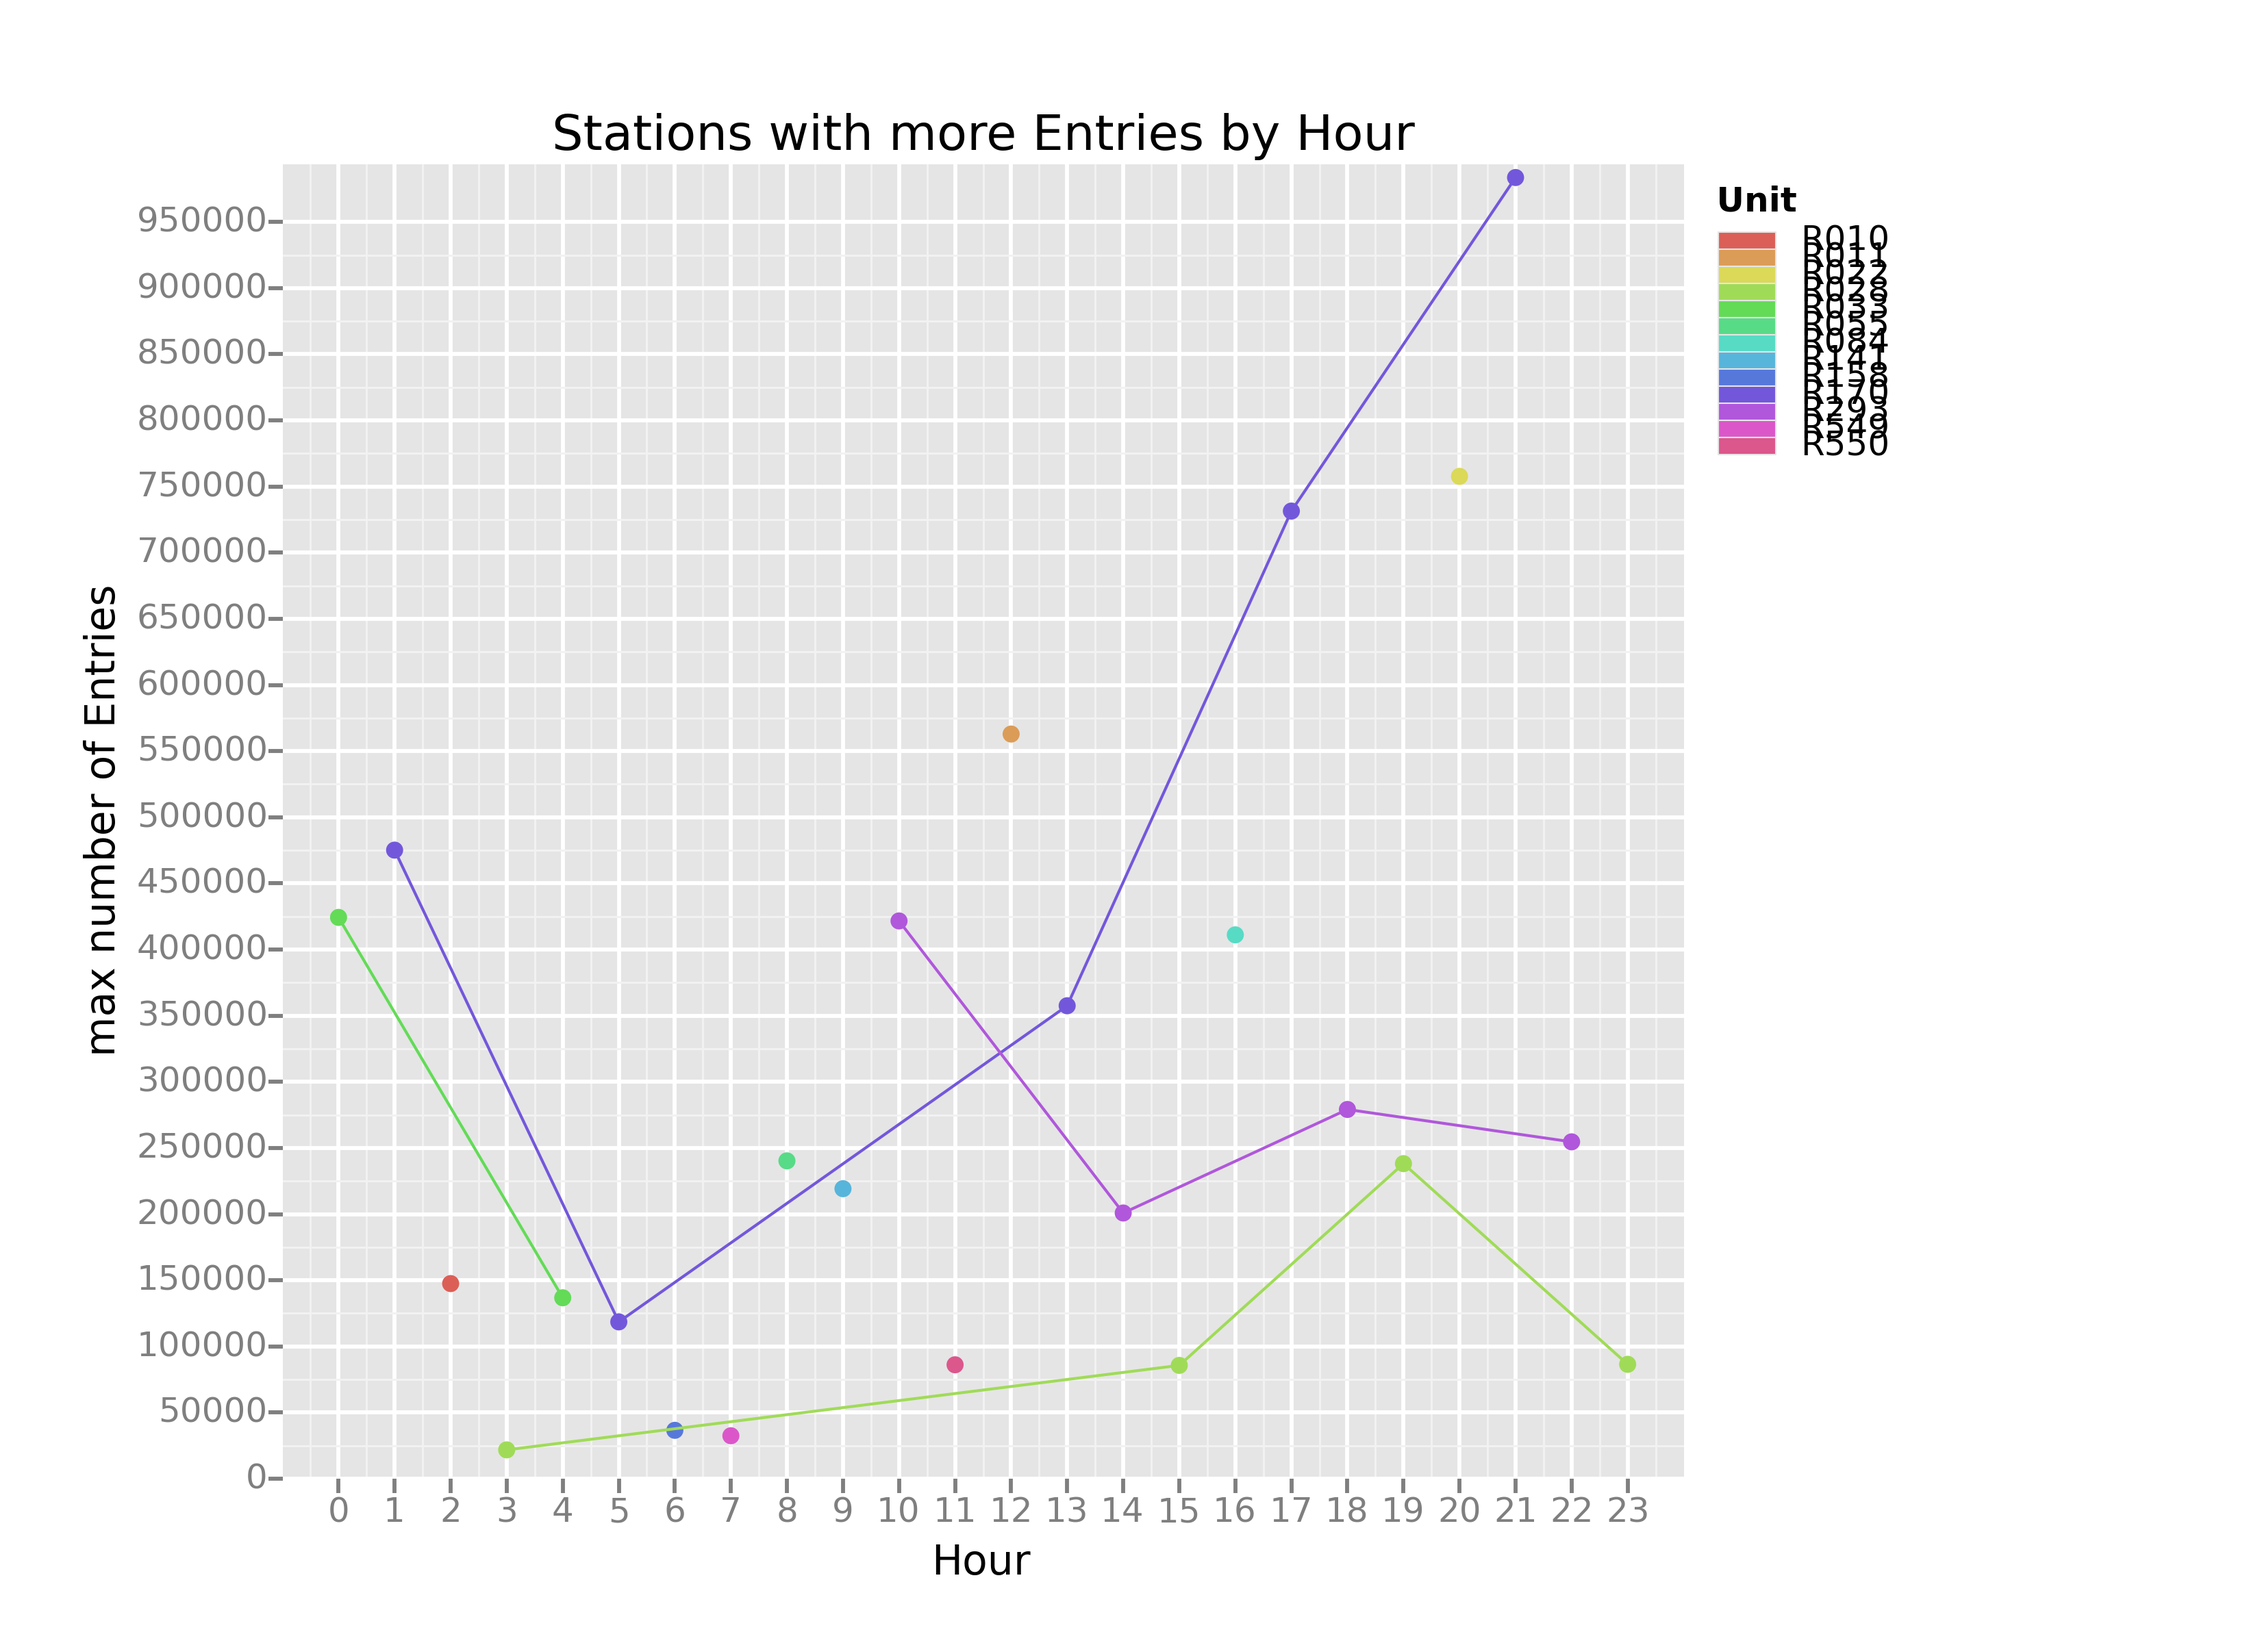
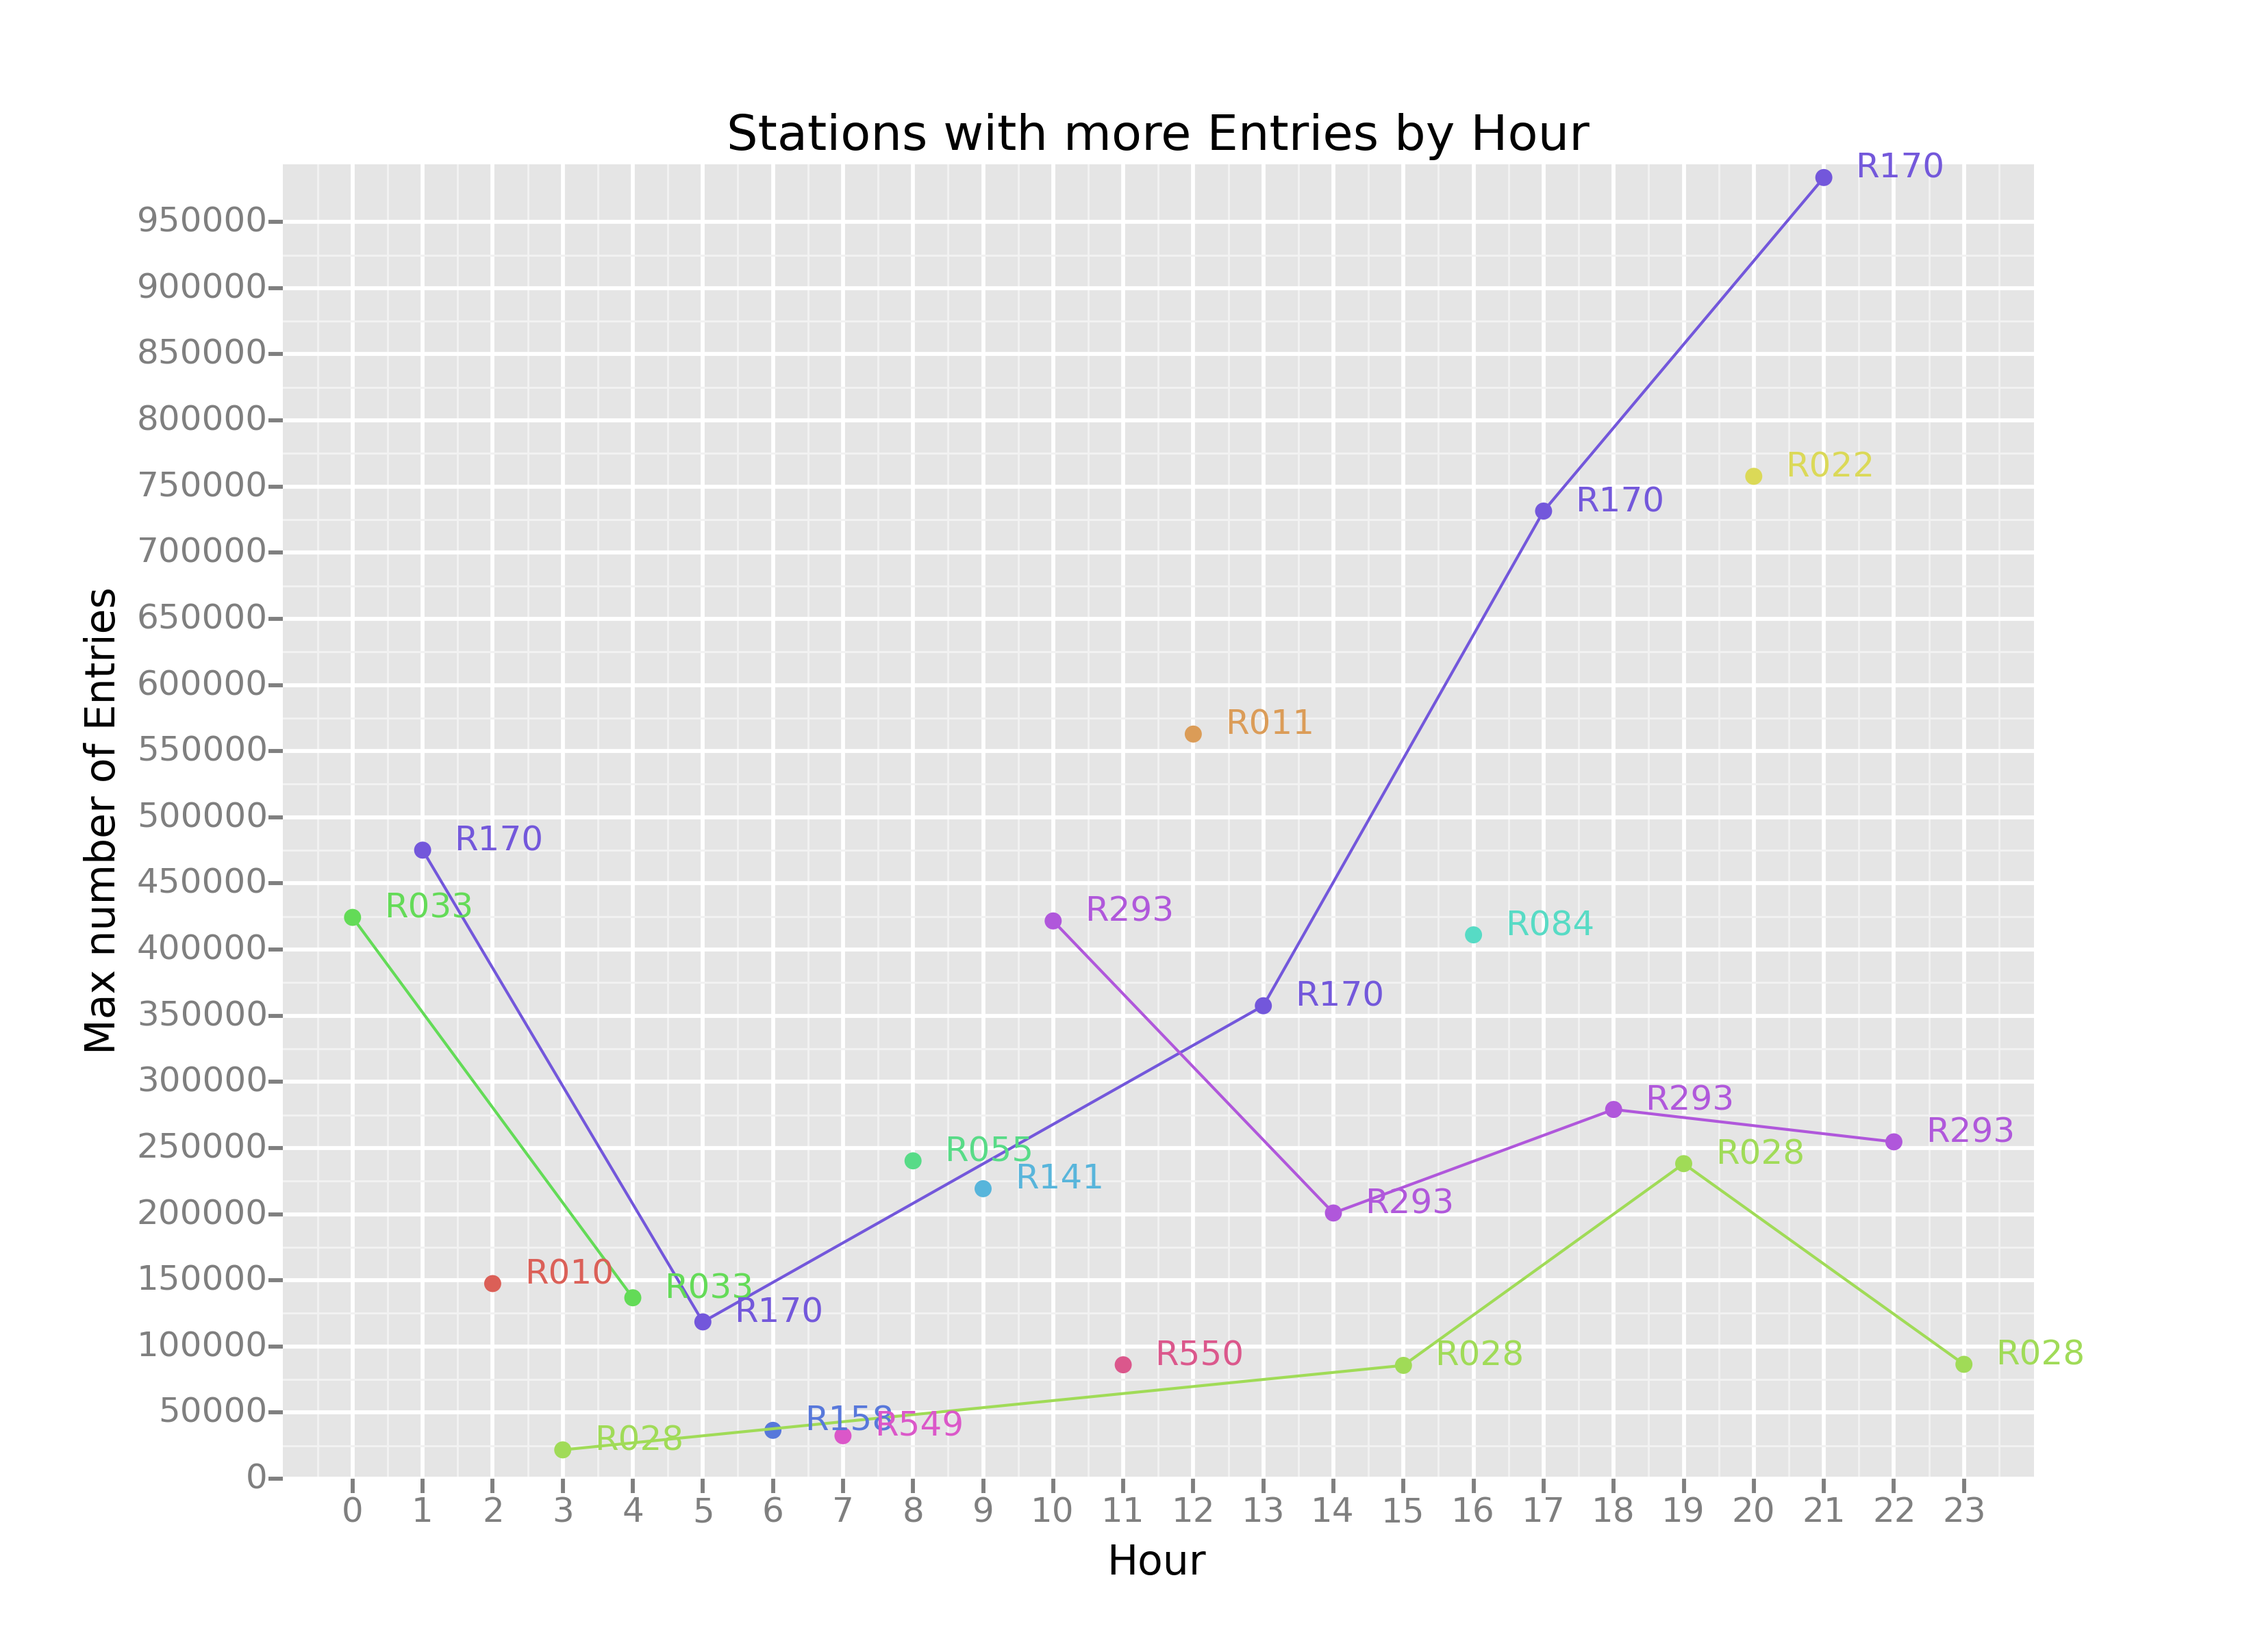
Intro to Data Science - Project Submission v1.2

diff --git a/intro_to_ds_programming_files/project_4/exercise_2/data_visualization.py b/intro_to_ds_programming_files/project_4/exercise_2/data_visualization.py
@@ -36,8 +36,8 @@ def plot_weather_data(turnstile_weather):
     about 1/3 of the actual data in the turnstile_weather dataframe.
     '''
 
-    #plot = ggplot(turnstile_weather, aes('EXITSn_hourly', 'ENTRIESn_hourly')) + stat_smooth(span=.15, color='black',
-    #                                                                                        se=True) + geom_point(
+    # plot = ggplot(turnstile_weather, aes('EXITSn_hourly', 'ENTRIESn_hourly')) + stat_smooth(span=.15, color='black',
+    # se=True) + geom_point(
     #    color='lightblue') + ggtitle("MTA Entries By The Hour!") + xlab('Exits') + ylab('Entries')
     #return plot
 
@@ -59,10 +59,12 @@ def plot_weather_data(turnstile_weather):
     # rename Entries column
     hour_and_maxentries = hour_and_maxentries.rename(columns={'sum_ENTRIESn_hourly': 'max_ENTRIESn_hourly'})
 
-    plot2 = ggplot(hour_and_maxentries,
-                   aes('Hour', 'max_ENTRIESn_hourly', color='UNIT')) + geom_point(size=30) + geom_line() + ggtitle(
-        'Stations with more Entries by Hour') + xlab('Hour') + ylab('Max number of Entries') + scale_x_continuous(
-        limits=(-1, 24), breaks=range(0, 24, 1)) + ylim(0, hour_and_maxentries['max_ENTRIESn_hourly'].max() + 10000)
+    plot2 = ggplot(hour_and_maxentries, aes('Hour', 'max_ENTRIESn_hourly', color='UNIT')) + geom_point(
+        size=30) + geom_line() + ggtitle('Stations with more Entries by Hour') + xlab('Hour') + ylab(
+        'Max number of Entries') + scale_x_continuous(limits=(-1, 24), breaks=range(0, 24, 1)) + ylim(0,
+                                                                                                      hour_and_maxentries[
+                                                                                                          'max_ENTRIESn_hourly'].max() + 10000) + geom_text(
+        aes(label='UNIT'), hjust=0.5, vjust=0.5)
     return plot2
 
 
@@ -72,5 +74,6 @@ if __name__ == "__main__":
     turnstile_weather = pd.read_csv("turnstile_data_master_with_weather.csv")
     turnstile_weather['datetime'] = turnstile_weather['DATEn'] + ' ' + turnstile_weather['TIMEn']
     gg = plot_weather_data(turnstile_weather)
-    #ggsave(f, gg)
+    # ggsave(f, gg)
+    print gg
     ggsave(image, gg, width=11, height=8)

diff --git a/intro_to_ds_programming_files/project_3/plot_histogram/plot_histogram.py b/intro_to_ds_programming_files/project_3/plot_histogram/plot_histogram.py
@@ -3,6 +3,7 @@ import pandas as pd
 import matplotlib.pyplot as plt
 import scipy
 
+
 def entries_histogram(turnstile_weather):
     '''
     Before we perform any analysis, it might be useful to take a
@@ -26,10 +27,21 @@ def entries_histogram(turnstile_weather):
     You can look at the information contained within the turnstile weather data at the link below:
     https://www.dropbox.com/s/meyki2wl9xfa7yk/turnstile_data_master_with_weather.csv
     '''
+    print turnstile_weather['ENTRIESn_hourly'][turnstile_weather['rain'] == 0].max()
+    print turnstile_weather['ENTRIESn_hourly'][turnstile_weather['rain'] == 1].max()
     plt.figure()
-    turnstile_weather['ENTRIESn_hourly'][turnstile_weather['rain'] == 0].hist(color='b', label='No Rain').legend() # your code here to plot a historgram for hourly entries when it is not raining
-    turnstile_weather['ENTRIESn_hourly'][turnstile_weather['rain'] == 1].hist(color='g', label='Rain').legend() # your code here to plot a historgram for hourly entries when it is raining
-    #plt.show()
+    plt.ylabel('Frequency')
+    plt.xlabel('Hourly Entries')
+    #axes = plt.gca()
+    #axes.set_xlim([0, 25000])
+    # axes.set_ylim([0,80000])
+    turnstile_weather['ENTRIESn_hourly'][turnstile_weather['rain'] == 0].hist(color='b', label='No Rain', bins=20,
+                                                                              range=(0,
+                                                                                     25000)).legend()  # your code here to plot a historgram for hourly entries when it is not raining
+    turnstile_weather['ENTRIESn_hourly'][turnstile_weather['rain'] == 1].hist(color='g', label='Rain', bins=20,
+                                                                              alpha=0.8, range=(
+            0, 25000)).legend()  # your code here to plot a historgram for hourly entries when it is raining
+    plt.show()
     return plt
 
 
@@ -41,4 +53,4 @@ if __name__ == "__main__":
 
 
 
-#http://matplotlib.org/examples/pylab_examples/histogram_demo_extended.html
+    # http://matplotlib.org/examples/pylab_examples/histogram_demo_extended.html

diff --git a/ud120-projects/pca/eigenfaces.py b/ud120-projects/pca/eigenfaces.py
@@ -44,6 +44,7 @@ lfw_people = fetch_lfw_people(min_faces_per_person=70, resize=0.4)
 n_samples, h, w = lfw_people.images.shape
 np.random.seed(42)
 
+
 # fot machine learning we use the 2 data directly (as relative pixel
 # positions info is ignored by this model)
 X = lfw_people.data
